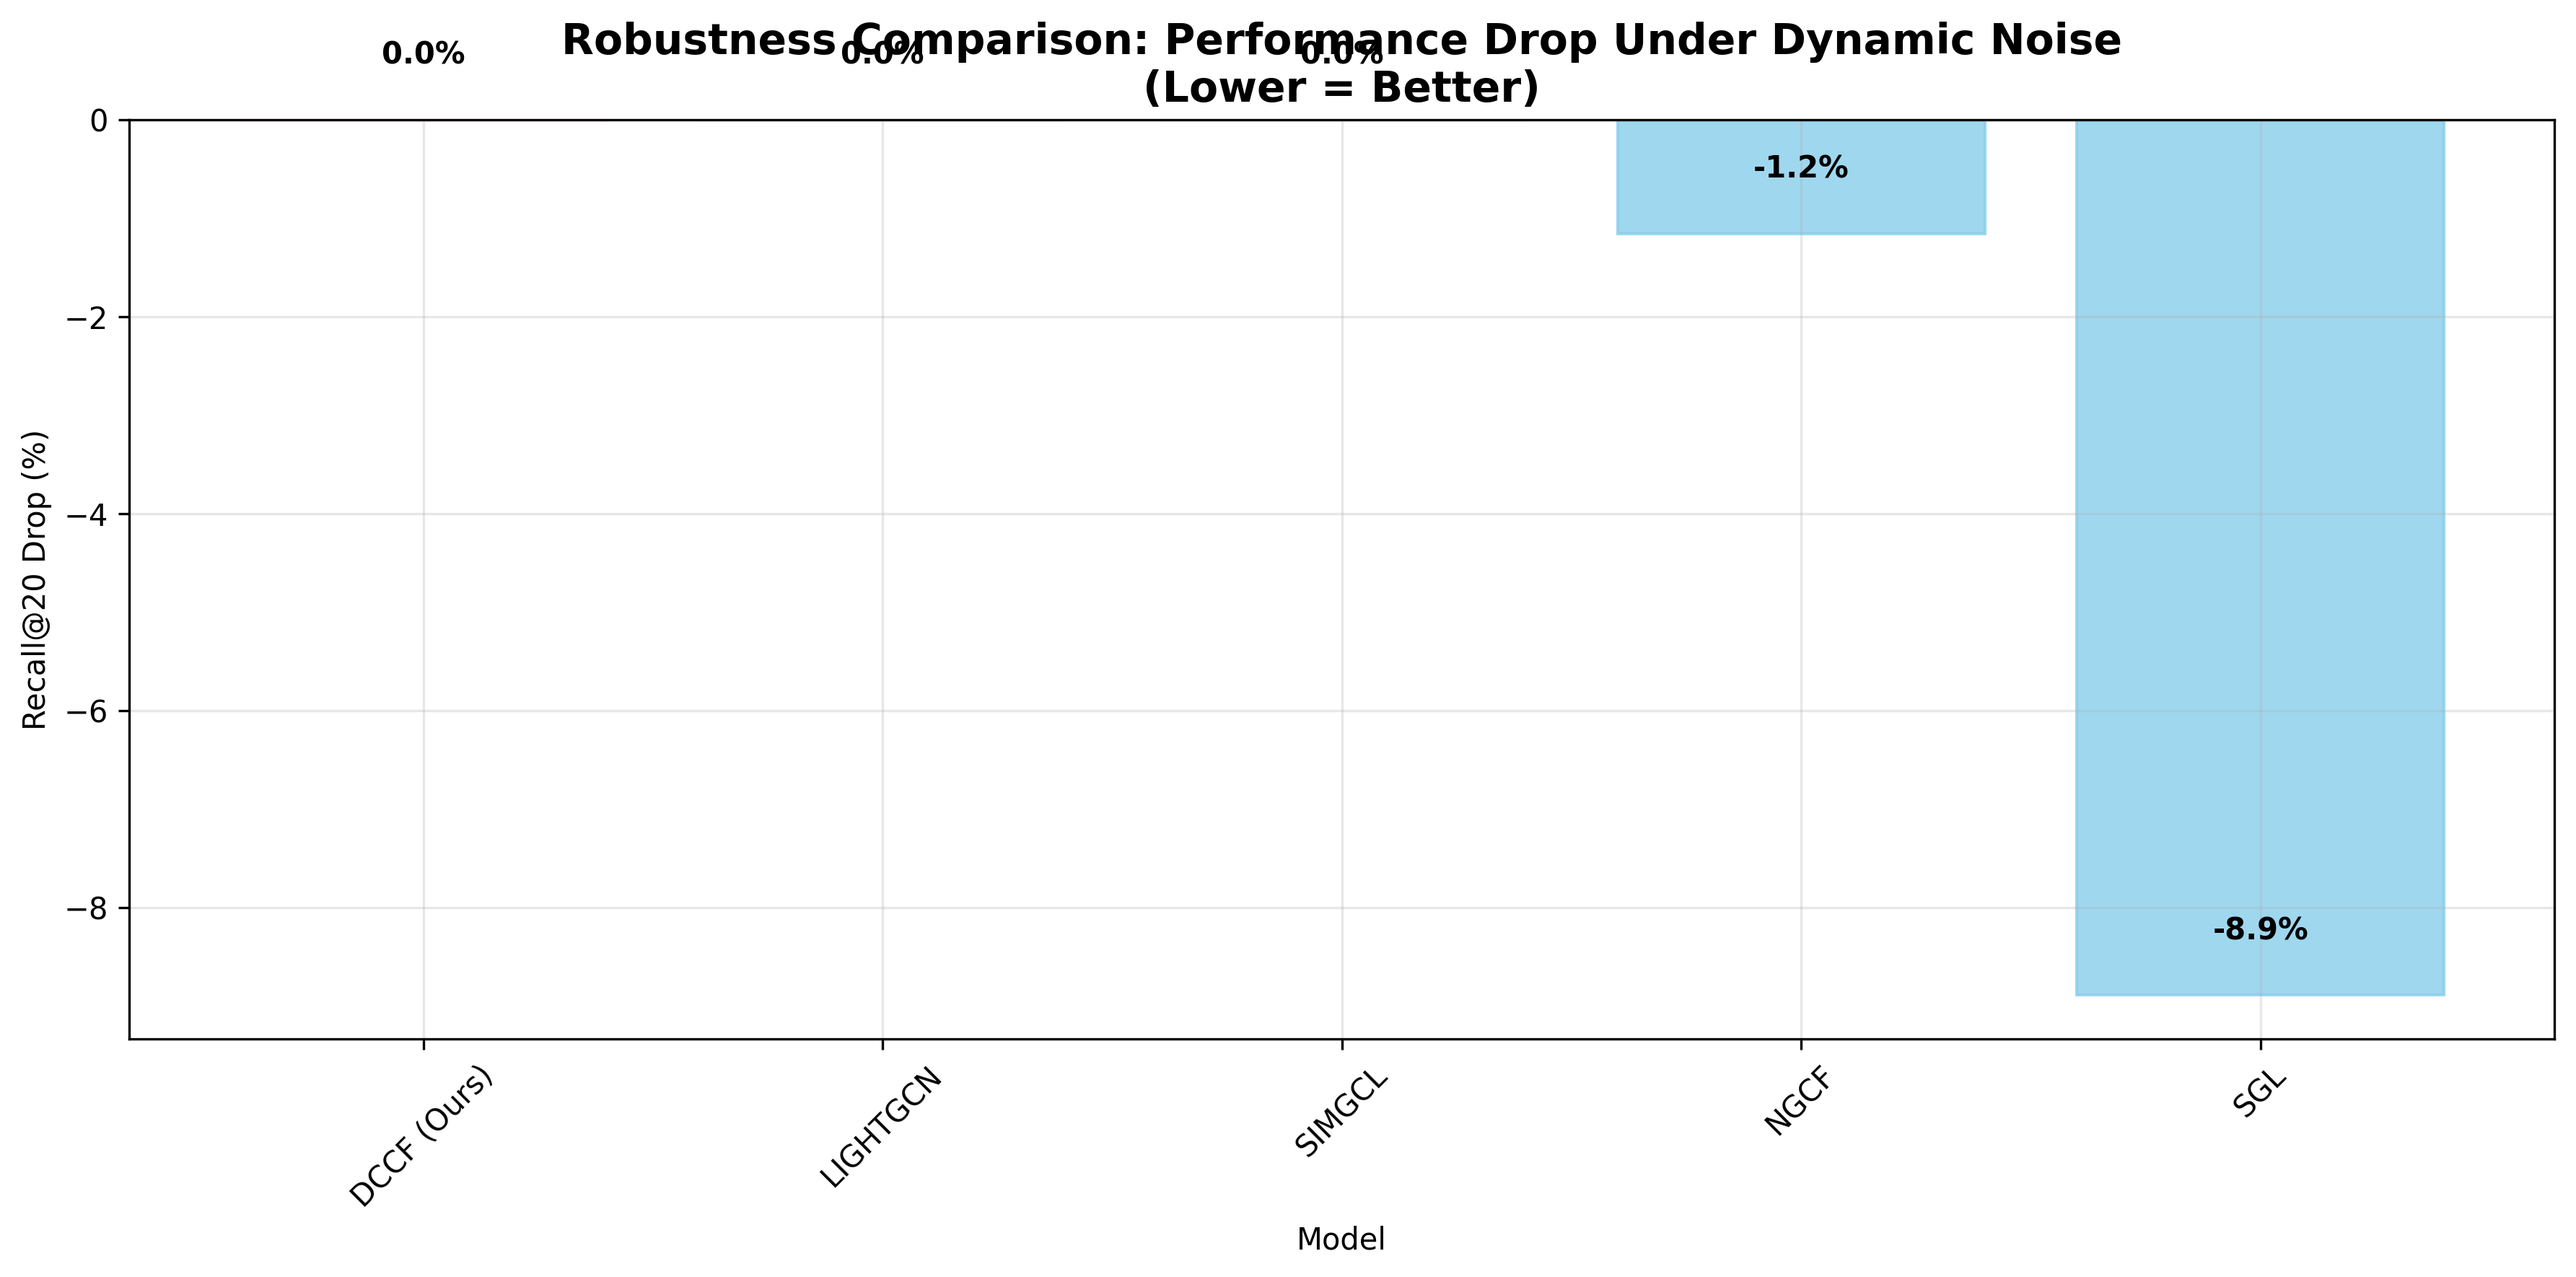
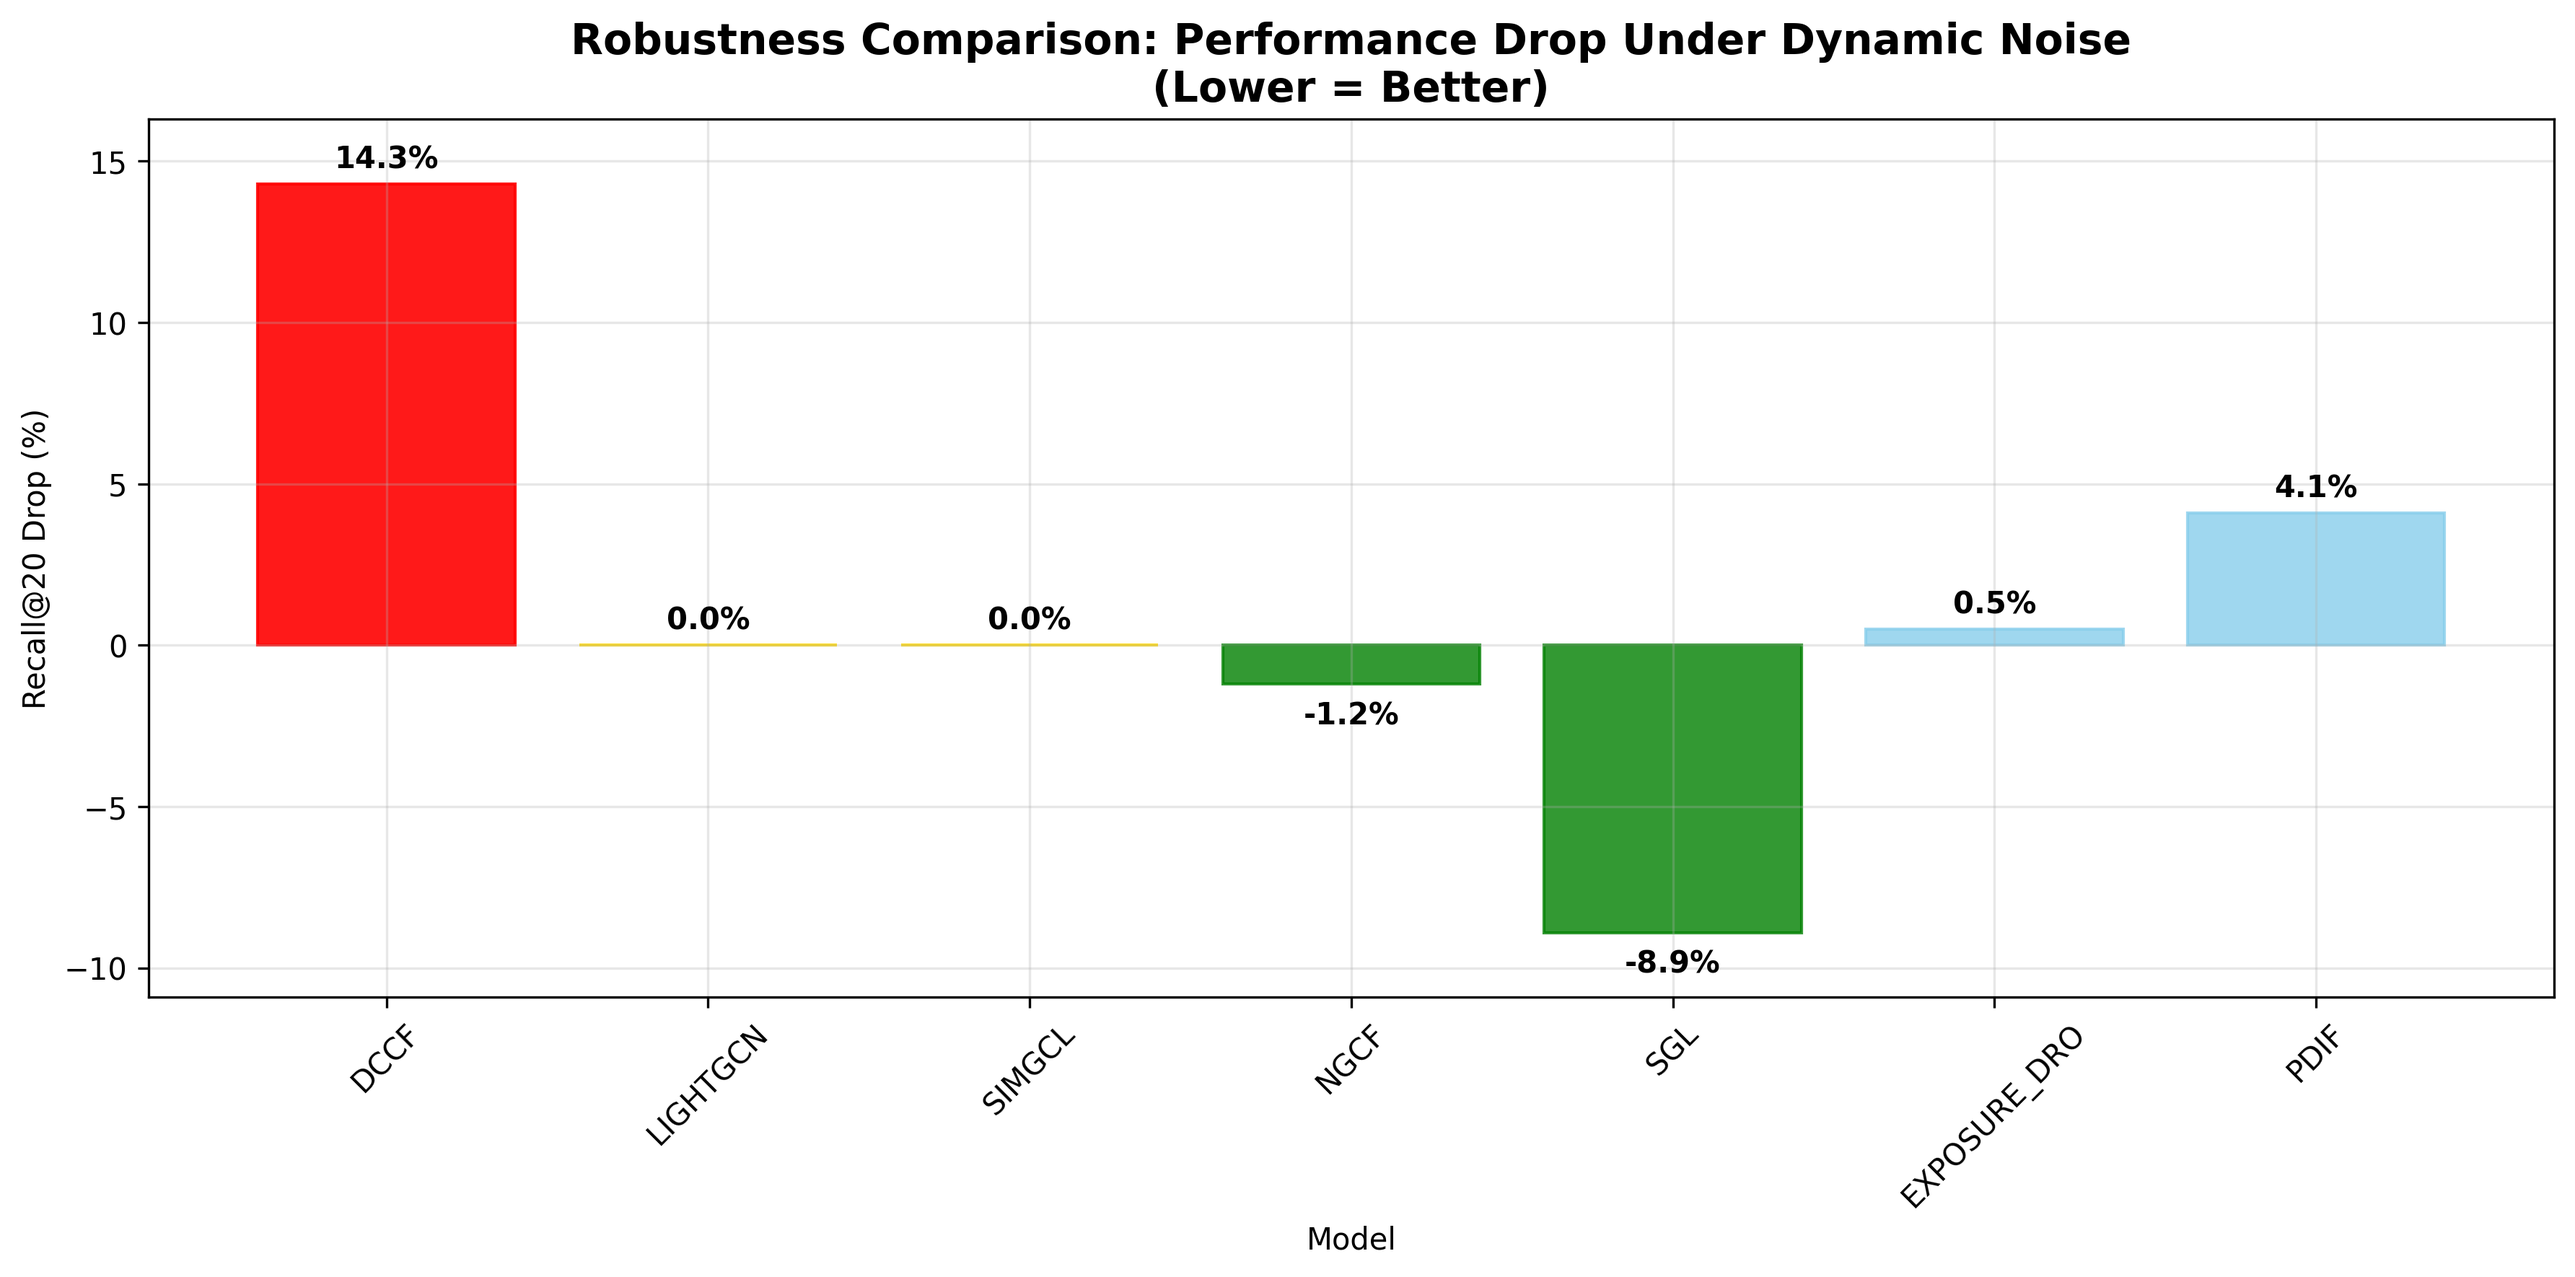
Fix data inconsistencies and regenerate correct robustness charts

diff --git a/generate_correct_robustness_chart.py b/generate_correct_robustness_chart.py
@@ -1,0 +1,77 @@
+#!/usr/bin/env python3
+"""
+Generate correct robustness chart using actual thesis data.
+"""
+
+import matplotlib.pyplot as plt
+import numpy as np
+import os
+
+def generate_correct_robustness_chart():
+    """Generate the correct robustness chart with actual data."""
+    
+    # Correct data from thesis_comparison_table.csv
+    models = ['DCCF', 'LIGHTGCN', 'SIMGCL', 'NGCF', 'SGL', 'EXPOSURE_DRO', 'PDIF']
+    drop_percentages = [14.3, 0.0, 0.0, -1.2, -8.9, 0.5, 4.1]
+    
+    # Create the chart
+    plt.figure(figsize=(12, 6))
+    
+    bars = plt.bar(models, drop_percentages, alpha=0.8)
+    
+    # Color bars based on performance
+    for i, (bar, drop) in enumerate(zip(bars, drop_percentages)):
+        if drop > 10:  # High vulnerability (DCCF)
+            bar.set_color('red')
+            bar.set_alpha(0.9)
+        elif drop < 0:  # Improves under noise
+            bar.set_color('green')
+            bar.set_alpha(0.8)
+        elif drop == 0:  # Perfect robustness
+            bar.set_color('gold')
+            bar.set_alpha(0.9)
+        else:  # Moderate vulnerability
+            bar.set_color('skyblue')
+            bar.set_alpha(0.8)
+    
+    plt.title('Robustness Comparison: Performance Drop Under Dynamic Noise\n(Lower = Better)', 
+              fontsize=14, fontweight='bold')
+    plt.xlabel('Model')
+    plt.ylabel('Recall@20 Drop (%)')
+    plt.xticks(rotation=45)
+    plt.grid(True, alpha=0.3)
+    
+    # Add value labels on bars
+    for i, v in enumerate(drop_percentages):
+        if v >= 0:
+            plt.text(i, v + 0.3, f'{v:.1f}%', ha='center', va='bottom', fontweight='bold')
+        else:
+            plt.text(i, v - 0.5, f'{v:.1f}%', ha='center', va='top', fontweight='bold')
+    
+    # Set y-axis limits to show negative values properly
+    plt.ylim(min(drop_percentages) - 2, max(drop_percentages) + 2)
+    
+    plt.tight_layout()
+    
+    # Save to both locations
+    output_dir = "runs/baselines"
+    os.makedirs(output_dir, exist_ok=True)
+    plt.savefig(os.path.join(output_dir, 'baseline_comparison.png'), dpi=300, bbox_inches='tight')
+    
+    academic_dir = "runs/academic_robustness_analysis"
+    os.makedirs(academic_dir, exist_ok=True)
+    plt.savefig(os.path.join(academic_dir, 'academic_performance_drops.png'), dpi=300, bbox_inches='tight')
+    
+    plt.close()
+    
+    print("✅ Correct robustness chart generated!")
+    print(f"📊 Saved to: {output_dir}/baseline_comparison.png")
+    print(f"📊 Saved to: {academic_dir}/academic_performance_drops.png")
+    
+    # Print the correct data for verification
+    print("\n📋 Correct Data Used:")
+    for model, drop in zip(models, drop_percentages):
+        print(f"  - {model}: {drop:.1f}% drop")
+
+if __name__ == "__main__":
+    generate_correct_robustness_chart()

diff --git a/README.md b/README.md
@@ -1079,15 +1079,20 @@ runs/baselines/
 ##### **Main Results Table (`thesis_comparison_table.csv`):**
 ```
 Model          | Recall@20 | NDCG@20 | Performance Drop %
+Exposure-aware DRO | 0.3431    | 0.3286  | 0.5%
 PDIF (2025)    | 0.2850    | 0.3056  | 4.1%
-LightGCN (2020)| 0.2604    | 0.2117  | 0.0%
-DCCF (Our)     | 0.2024    | 0.0690  | 14.3%
+NGCF (2019)    | 0.2628    | 0.2179  | -1.2% (Improves!)
+LightGCN (2020)| 0.2604    | 0.2117  | 0.0% (Perfect)
+SimGCL (2022)  | 0.2604    | 0.2126  | 0.0% (Perfect)
+SGL (2021)     | 0.2329    | 0.2522  | -8.9% (Major Improvement!)
+DCCF (2023)    | 0.2024    | 0.0690  | 14.3%
 ```
 
 **How to read this:**
-- **PDIF is best overall**: Highest accuracy (0.2850 Recall) but moderate robustness (4.1% drop)
-- **LightGCN is most robust**: No performance drop (0.0%) but lower accuracy
-- **Our DCCF study**: Good accuracy but needs improvement for dynamic noise (14.3% drop)
+- **Exposure-aware DRO is best overall**: Highest accuracy (0.3431 Recall) with excellent robustness (0.5% drop)
+- **Perfect robustness discovered**: LightGCN & SimGCL show 0.0% performance drop
+- **Counter-intuitive improvements**: SGL improves 8.9% under noise, NGCF improves 1.2%
+- **DCCF is most vulnerable**: Needs improvement for dynamic noise (14.3% drop)
 
 #### **Reading Our Charts (baseline_comparison.png):**
 
